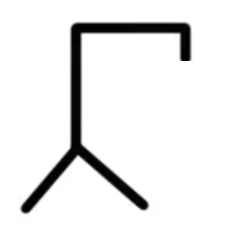
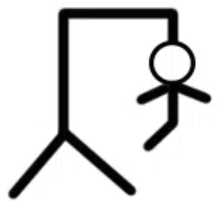
commit

Changed region(s): [[0.1106, 0.0297, 0.9954, 0.9802], [0.0276, 0.8614, 0.1382, 1.0], [0.1659, 0.8317, 0.1935, 0.8614]]

diff --git a/practicas/elAhorcado/script.js b/practicas/elAhorcado/script.js
@@ -4,21 +4,122 @@ let palabraOculta = document.getElementById('palabra_oculta');
 let crono = document.getElementById('crono');
 let intentos = document.getElementById('intentos');
 let errores = document.getElementById('errores');
+let div_letras = document.getElementById('div_letras');
 let letras = document.getElementsByClassName('letra');
 let cuentaAtras = document.getElementById('cuenta_atras');
+
+/* Variables */
+
 let palabras = ["menorca", "programacion", "aeropuerto", "asiento", "teclado", "vacaciones"];
+let palabraElegida = "";
+let palabraVisible = [];
+let contadorIntentos = parseInt(intentos.innerText);
+let contadorErrores = parseInt(errores.innerText);
 
 
-// elegir una palabra aleatoria
-let palabraElegida = palabras[4];
+// Elegir una palabra aleatoria y mostrar con barras bajas.
+function elegirMostrarPalabra() {
+  // Elegir una palabra aleatoria del array palabras
+  palabraElegida = palabras[Math.floor(Math.random() * palabras.length)];
+
+  // Pasar la palabra elegida a mayúsculas
+  palabraElegida = palabraElegida.toUpperCase();
+  console.log(palabraElegida);
+
+  // Ocultar la palabra con guiones bajos
+  for (let i = 0; i < palabraElegida.length; i++) {
+      palabraVisible = palabraVisible + "_";
+  }
+  
+  // Mostrar la palabra oculta en el HTML.
+  palabraOculta.innerHTML = palabraVisible;
+}
+
+// Función para actualizar el dibujo del ahorcado según los intentos restantes.
+function actualizarDibujo(contadorIntentos) {
+  switch(contadorIntentos) {
+    case 7:
+      dibujo.src = "../assets/ahorcado/ahorcado_7.png"
+      break;
+    case 6:
+      dibujo.src = "../assets/ahorcado/ahorcado_6.png"
+      break;
+    case 5:
+      dibujo.src = "../assets/ahorcado/ahorcado_5.png"
+      break;
+    case 4:
+      dibujo.src = "../assets/ahorcado/ahorcado_4.png"
+      break;
+    case 3:
+      dibujo.src = "../assets/ahorcado/ahorcado_3.png"
+      break;
+    case 2:
+      dibujo.src = "../assets/ahorcado/ahorcado_2.png"
+      break;
+    case 1:
+      dibujo.src = "../assets/ahorcado/ahorcado_1.png"
+      break;
+    case 0:
+      dibujo.src = "../assets/ahorcado/ahorcado_0.png"
+      break;
+  }
+}
 
 
-// pasar palabra elegida a mayusculas
-palabraElegida = palabraElegida.toUpperCase();
-console.log(palabraElegida);
+elegirMostrarPalabra();
+actualizarDibujo(contadorIntentos);
 
+// EVENTOS
 
+div_letras.addEventListener('click', function(e) {
 
-// mostrar palabra elegida ocultada en html con barras bajas
+  let letraCorrecta = false;
+  let letraElegida = e.target;
+  let letraPalabraElegida = null;
+
+  // Si la letra clickada no ha sido usada
+  if(letraElegida.classList.contains('letra') &&
+  !letraElegida.classList.contains('letra_incorrecta') &&
+  !letraElegida.classList.contains('letra_correcta')) {
+
+    // Comprobar si el value de la letra existe en la palabra elegida recorriendo cada caracter.
+    for (let i = 0; i < palabraElegida.length; i++) {
+      if (letraElegida.value == palabraElegida[i]) {
+        console.log("La letra presionada existe en la palabra");
+
+        letraPalabraElegida = palabraElegida[i];
+
+        letraCorrecta = true;
+      }
+    }
+
+    if (letraCorrecta == false) {
+        /* Añadir a la letra clase incorrecta */
+        letraElegida.classList.toggle('letra_incorrecta');
+
+        /* restar intento y sumar error */
+        contadorIntentos = parseInt(contadorIntentos) -1;
+        intentos.innerText = contadorIntentos;
+
+        contadorErrores = parseInt(contadorErrores) + 1;
+        errores.innerText = contadorErrores;
+
+    } else if (letraCorrecta == true) {
+      /* Añadir a la letra clase correcta */
+      letraElegida.classList.toggle('letra_correcta');
+
+      // mostrar letra acertada en palabra html
+      // for (let i = 0; i < palabraElegida.length; i++) {
+      //   if (letraElegida.value == letraPalabraElegida[i]) {
+      //     letraPalabraElegida[i] = letraElegida;
+      //   }
+      // }
+      // palabraOculta.innerHTML = palabraElegida;
+    }
+
+  }
+
+  actualizarDibujo(contadorIntentos);
+}, false)
 
 

diff --git a/practicas/cinema/script.js b/practicas/cinema/script.js
@@ -15,11 +15,11 @@ function actualizaSeleccionAsientos() {
   
   const asientosSeleccionados = document.querySelectorAll('.fila .asiento.seleccionado');
   
-  // const indiceAsientos = [...asientosSeleccionados].map(function(asiento) {
-  //   return [...asientos].indexOf(asiento);
-  // });
+  const indiceAsientos = [...asientosSeleccionados].map(function(asiento) {
+    return [...asientos].indexOf(asiento);
+  });
 
-  const indiceAsientos = [...asientosSeleccionados].map((asiento)=>[...asientos].indexOf(asiento));
+  // const indiceAsientos = [...asientosSeleccionados].map((asiento)=>[...asientos].indexOf(asiento));
 
   localStorage.setItem('asientosSeleccionados', JSON.stringify(indiceAsientos));
 

diff --git a/practicas/elAhorcado/views/juego.html b/practicas/elAhorcado/views/juego.html
@@ -10,13 +10,13 @@
   <main>
     <h1 class="titulo">El Ahorcado</h1>
 
-    <p>Selecciona una letra, te quedan <span class="intentos">7</span> intentos</p>
+    <p>Selecciona una letra, te quedan <span class="intentos" id="intentos">7</span> intentos</p>
 
     <p class="palabra_oculta" id="palabra_oculta"></p>
 
     <img src="../assets/ahorcado/ahorcado_1.png" id="img_dibujo" class="img_dibujo">
     
-    <div class="div_letras">
+    <div class="div_letras" id="div_letras">
       <input type="button" value="A" class="letra">
       <input type="button" value="B" class="letra">
       <input type="button" value="C" class="letra">

diff --git a/practicas/elAhorcado/css/style.css b/practicas/elAhorcado/css/style.css
@@ -12,7 +12,7 @@ action-color: #ffd700
   list-style-type: none;
   margin: 0;
   box-sizing: border-box;
-  font-family: 'Lucida Sans', 'Lucida Sans Regular', 'Lucida Grande';
+  font-family: 'Lucida Sans', 'Lucida Sans Regular', 'Lucida Grande', "Arial";
 }
 
 
